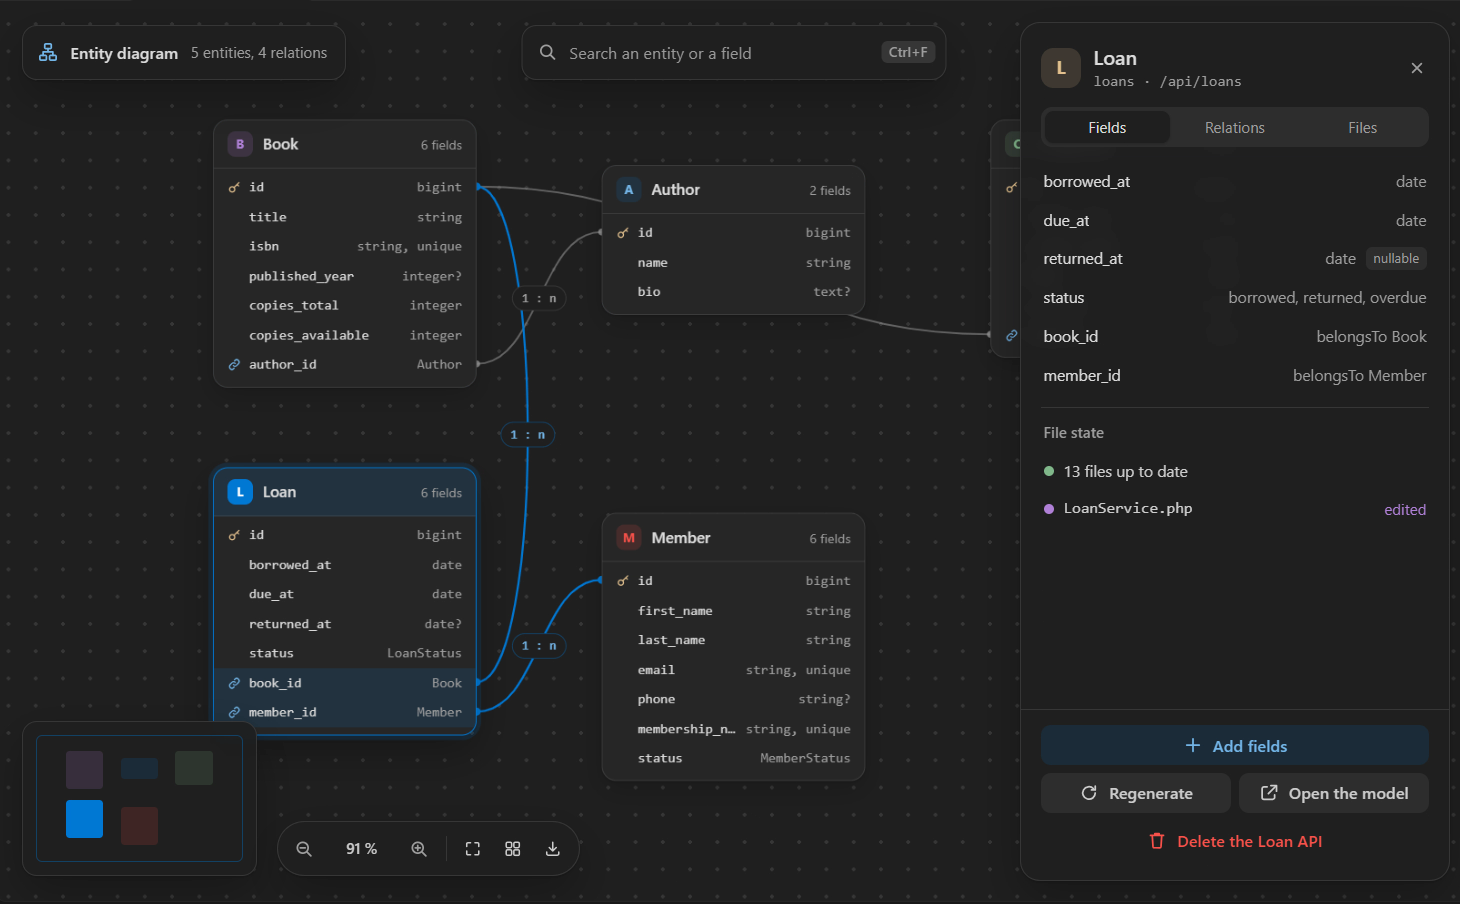
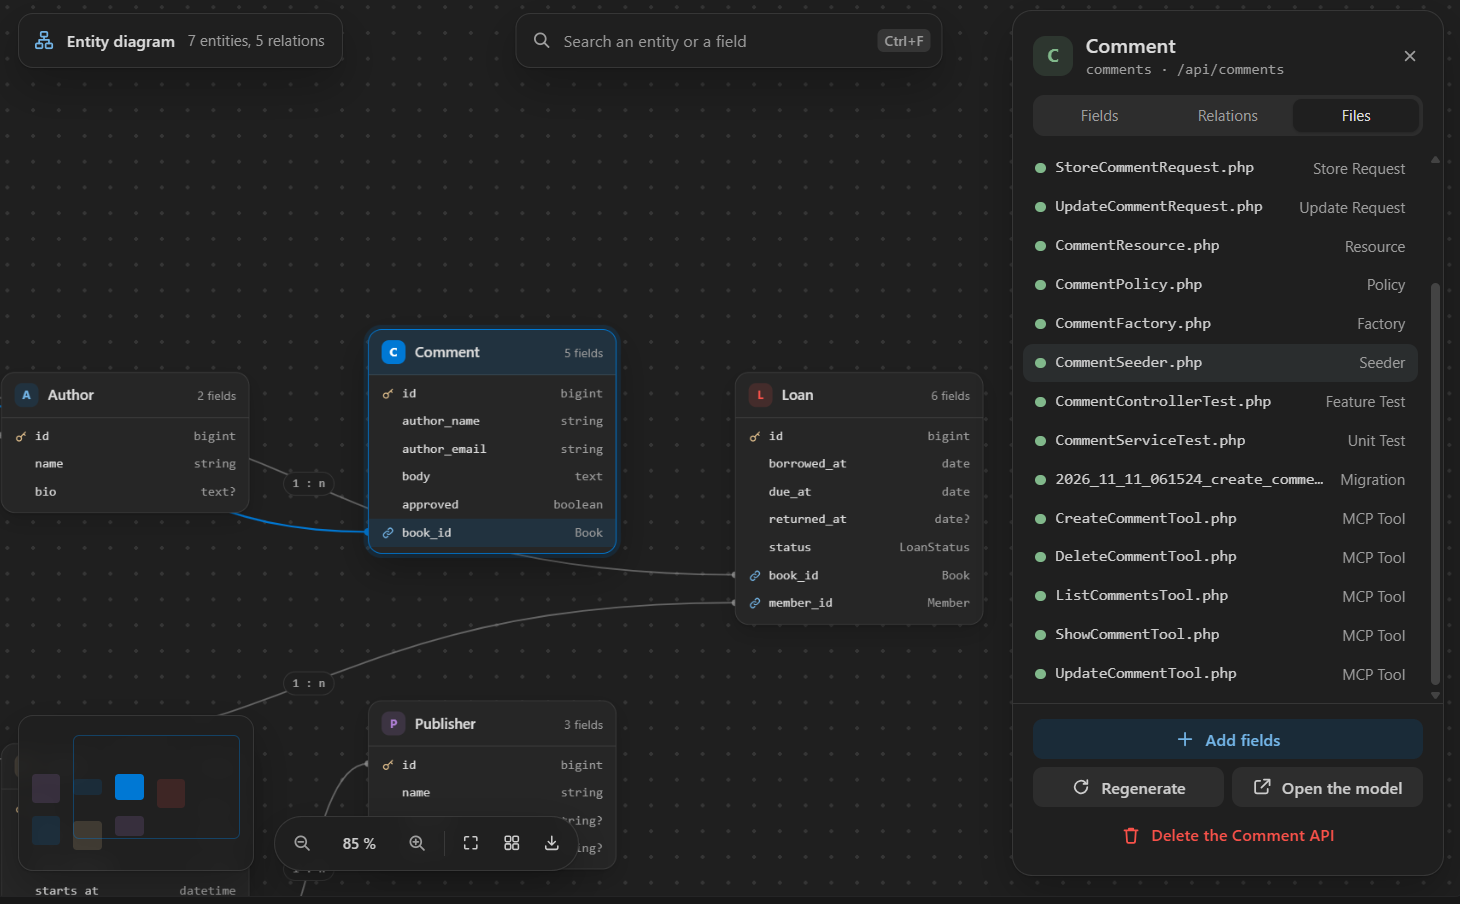
docs: redo the extension captures on 1.4

diff --git a/docs/fr/guide/extension/imports.md b/docs/fr/guide/extension/imports.md
@@ -8,7 +8,7 @@ Les sources sont dans l'accueil de la sidebar sous **Générer depuis**, dans le
 
 Le package lance la génération à blanc, et le panneau montre ce qu'elle ferait. Chaque entité liste ses champs, ses relations et les fichiers qu'elle recevrait, avec un badge pour les nouvelles et pour celles déjà générées. Les fichiers partagés, `routes/api.php` et `DatabaseSeeder.php`, ont leur propre ligne. Sur le côté, le résumé compte les fichiers à créer et à modifier et les nouvelles routes, et les options de génération (Tests Pest, Collection Postman, Auth Sanctum, Spatie QueryBuilder, Resources JSON:API, et Outils MCP avec le package 4.2) restent modifiables.
 
-![La relecture d'une spec OpenAPI, puis la génération des deux entités](/ext-review.gif)
+![La relecture d'une spec OpenAPI avec les outils MCP, puis la génération des deux entités](/ext-review.gif)
 
 Un fichier retouché à la main depuis la dernière génération reste tel quel. L'écran le nomme, **Voir les diffs** le compare avec ce que le générateur écrirait, et **Écraser quand même** l'inclut volontairement. Les schémas que le package a laissés de côté sont listés avec la raison, comme le schéma d'erreur d'une spec.
 

diff --git a/docs/guide/extension/imports.md b/docs/guide/extension/imports.md
@@ -8,7 +8,7 @@ The sources are in the sidebar home under **Generate from**, in the `...` menu o
 
 The package runs the generation as a dry run, and the panel shows what it would do. Each entity lists its fields, its relations and the files it would get, with a badge for the new ones or the entities already generated. The shared files, `routes/api.php` and `DatabaseSeeder.php`, have their own row. On the side, the summary counts the files to create and to update and the new routes, and the generation options (Pest tests, Postman collection, Sanctum auth, Spatie QueryBuilder, JSON:API resources, and MCP tools with package 4.2) can still be switched.
 
-![The review of an OpenAPI spec, then the generation of both entities](/ext-review.gif)
+![The review of an OpenAPI spec with the MCP tools, then the generation of both entities](/ext-review.gif)
 
 A file you edited by hand since the last generation stays as it is. The screen names it, **View the diffs** compares it with what the generator would write, and **Overwrite anyway** includes it on purpose. Schemas the package left aside are listed with the reason, such as the error schema of a spec.
 

diff --git a/docs/fr/guide/extension/builder.md b/docs/fr/guide/extension/builder.md
@@ -21,7 +21,7 @@ Les options sont Soft deletes, Tests Pest, Auth Sanctum, Spatie QueryBuilder, Re
 
 Le formulaire est enregistré en brouillon pour chaque projet. Il revient à la réouverture du builder ou de la fenêtre, jusqu'à ce que **Réinitialiser le formulaire** ou une génération réussie l'efface. Un exemple ou un import appliqué sur un formulaire déjà rempli propose **Annuler**. Quand **Générer l'API** est désactivé, une ligne du pied de page dit pourquoi et chaque ligne à corriger porte son message.
 
-![Choisir un exemple, ajouter une relation, et l'aperçu suit](/ext-builder.gif)
+![Choisir un exemple, ajouter une relation, activer les outils MCP, et l'aperçu suit](/ext-builder.gif)
 
 ## Aperçu en direct
 

diff --git a/docs/guide/extension/builder.md b/docs/guide/extension/builder.md
@@ -21,7 +21,7 @@ The options are Soft deletes, Pest tests, Sanctum auth, Spatie QueryBuilder, JSO
 
 The form is saved as a draft for each project. It comes back when the builder or the window reopens, until **Reset the form** or a successful generation clears it. An example or an import applied over a filled form offers **Undo**. When **Generate the API** is off, a line in the footer says why and each row to fix carries its message.
 
-![Pick an example, add a relation, and the preview follows](/ext-builder.gif)
+![Pick an example, add a relation, turn on the MCP tools, and the preview follows](/ext-builder.gif)
 
 ## Live preview
 

diff --git a/docs/fr/guide/extension/diagram-and-sidebar.md b/docs/fr/guide/extension/diagram-and-sidebar.md
@@ -4,7 +4,7 @@
 
 **Diagramme des entités** dessine chaque entité générée sur un canevas infini, avec ses colonnes et leurs types lus dans les migrations, clés étrangères comprises.
 
-![Le diagramme d'entités, avec l'inspecteur de l'entité Loan](/ext-diagram.png)
+![Le diagramme d'entités, avec les fichiers de l'entité Comment dans l'inspecteur](/ext-diagram.png)
 
 Les déclarations inverses (Post `hasMany` Comment et Comment `belongsTo` Post) sont fusionnées en un seul lien avec sa cardinalité, et une relation auto-référentielle se dessine en petite boucle. Survoler une carte met ses connexions en surbrillance.
 

diff --git a/docs/guide/extension/diagram-and-sidebar.md b/docs/guide/extension/diagram-and-sidebar.md
@@ -4,7 +4,7 @@
 
 **Entity diagram** draws every generated entity on an infinite canvas, with its columns and their types read from the migrations, foreign keys included.
 
-![The entity diagram, with the inspector of the Loan entity](/ext-diagram.png)
+![The entity diagram, with the files of the Comment entity in the inspector](/ext-diagram.png)
 
 Inverse declarations (Post `hasMany` Comment and Comment `belongsTo` Post) are merged into a single link with its cardinality, and a self-referential relation draws a small loop. Hovering a card highlights its connections.
 
